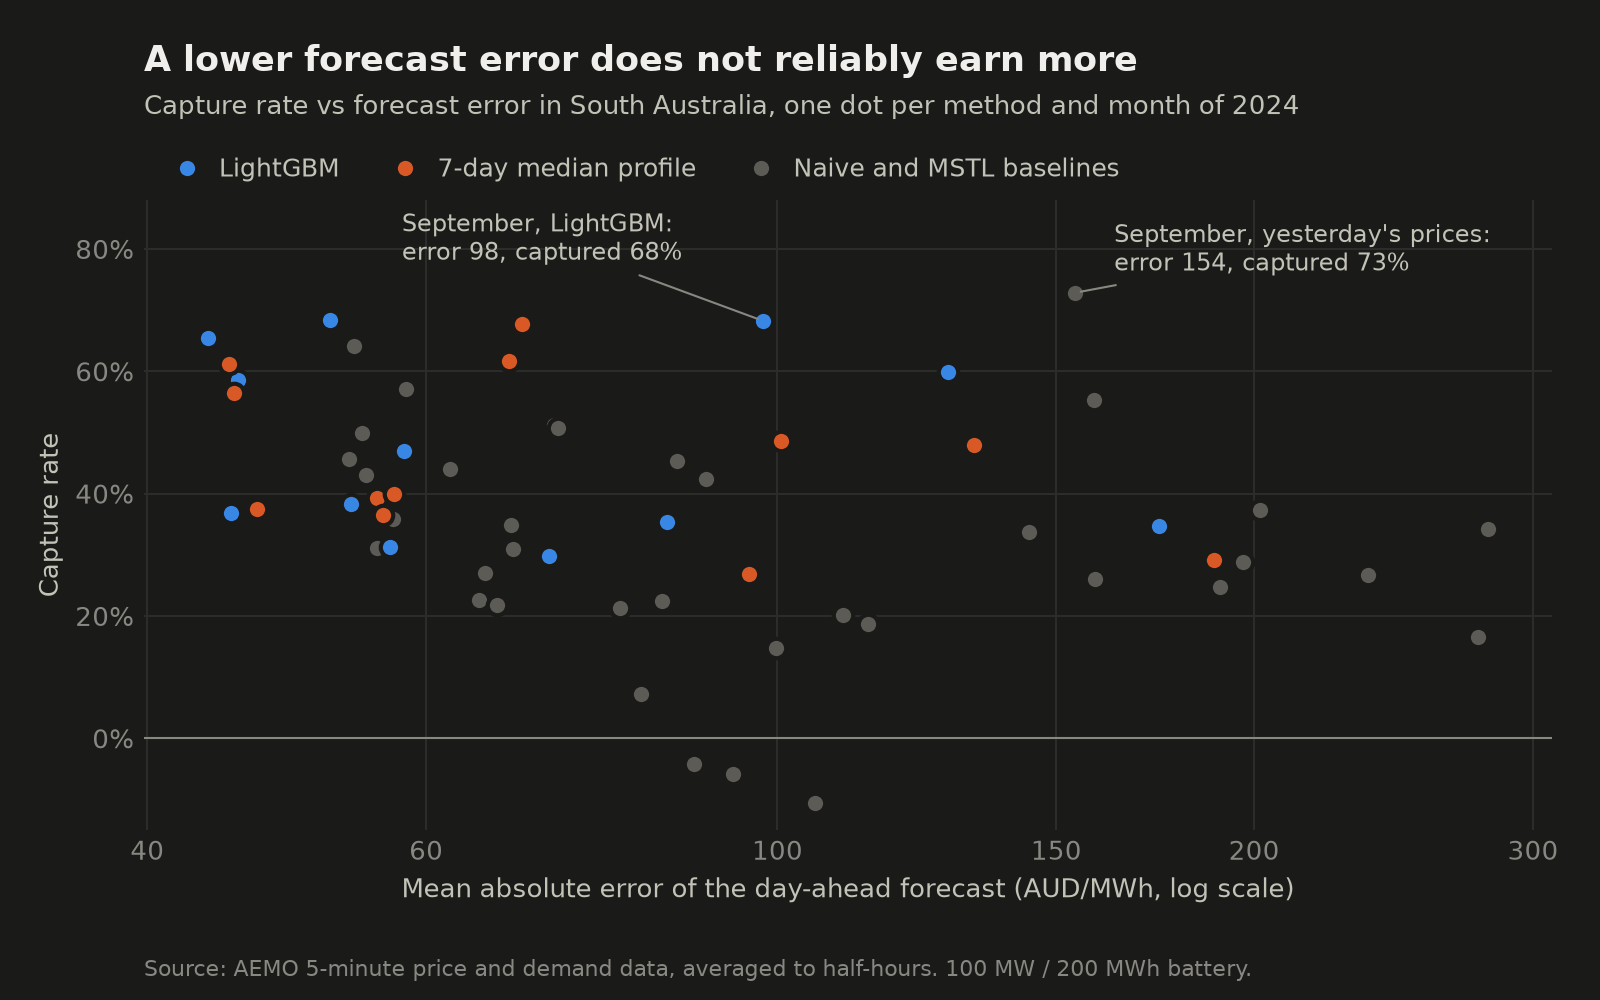
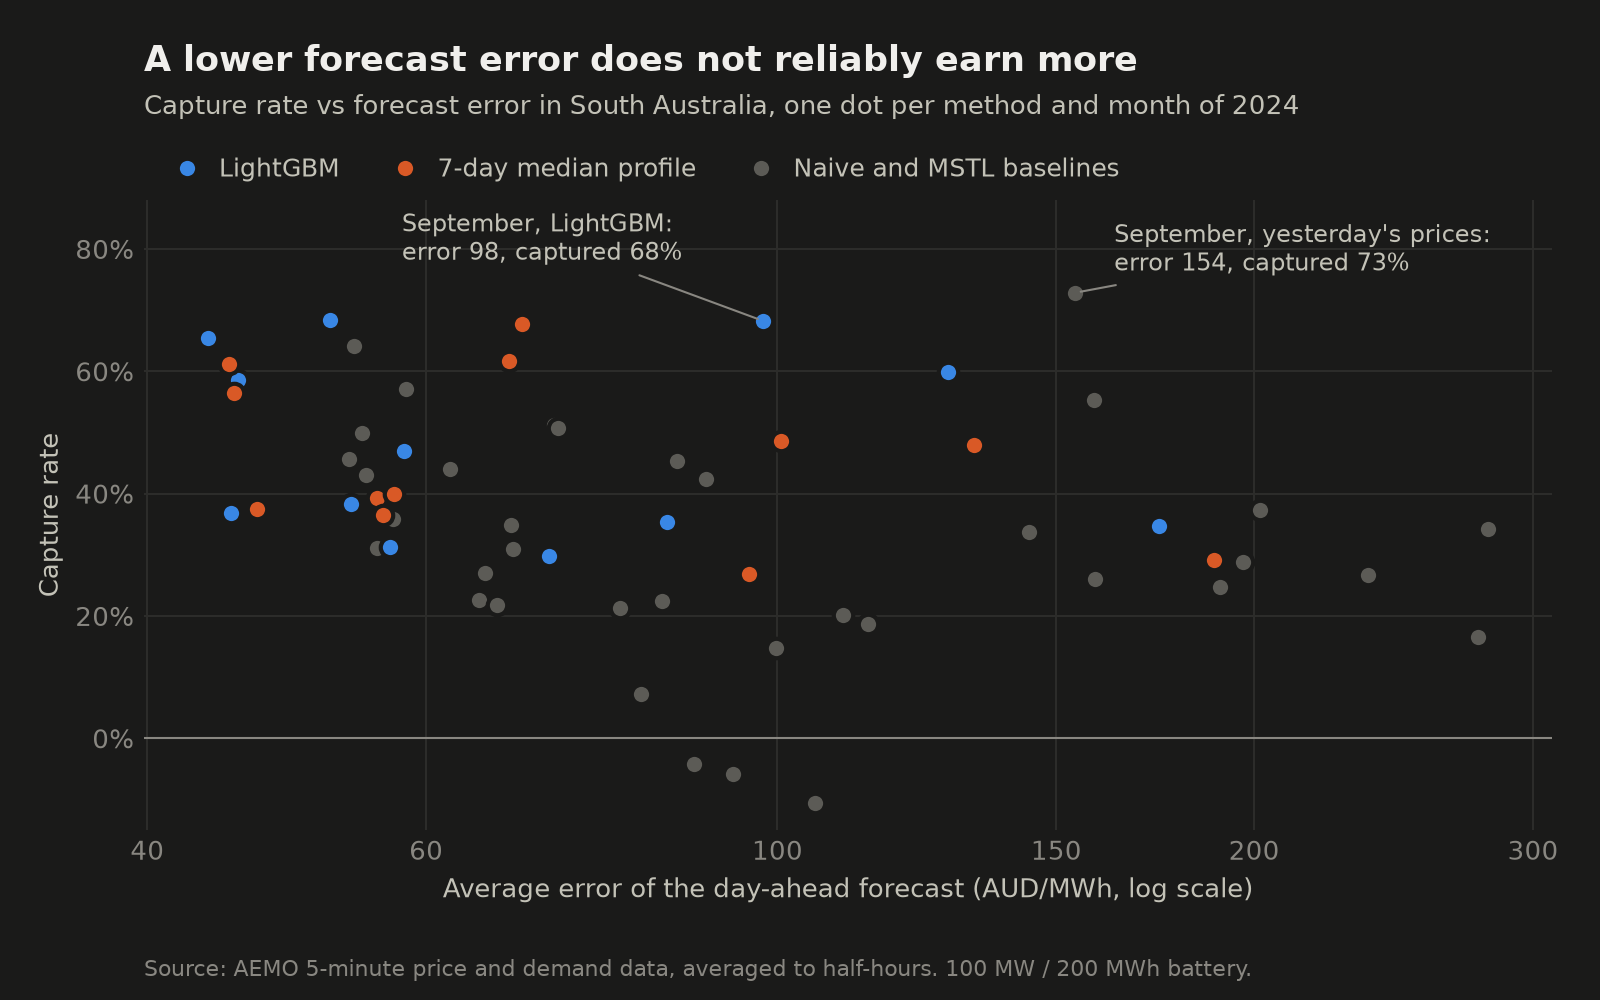
Add explanatory charts: a battery's day, capture by method, two forecasts
- battery_day: 25 Dec 2024 prices and the perfect-foresight plan
- capture_bars: each method's share of the perfect-foresight revenue
- two_forecasts: 24 Jun 2024, where LightGBM's plan bought into a
  price spike and the less accurate forecast earned more
- README shows the first and the third; plainer axis label on the
  monthly chart

Changed region(s): [[0.25, 0.868, 0.8125, 0.899]]

diff --git a/src/nem_battery/figures.py b/src/nem_battery/figures.py
@@ -1,5 +1,8 @@
 """The README's figures, each in a light and a dark version, drawn from the reports.
 
+- battery_day: one day's prices and the plan of a battery that knew them in advance;
+- capture_bars: the share of the perfect-foresight revenue each method earned;
+- two_forecasts: a day on which the less accurate forecast earned more;
 - capture_vs_mae: capture rate vs forecast error, one dot per method and month;
 - score_agreement: how well each forecast score ranks the methods' daily revenue;
 - sensitivity: the shape's lead over MAE for other batteries and regions.
@@ -10,14 +13,18 @@ from __future__ import annotations
 from pathlib import Path
 
 import matplotlib as mpl
+import numpy as np
 import pandas as pd
 from matplotlib.figure import Figure
 from matplotlib.lines import Line2D
+from matplotlib.patches import Patch
 from matplotlib.ticker import FixedLocator, PercentFormatter
 
-from .data import FIGURES_DIR
+from .backtest import load_forecasts
+from .battery import Battery, schedule
+from .data import FIGURES_DIR, INTERVAL_HOURS, INTERVALS, load_prices, prices_on
 from .forecasters import PERFECT
-from .pipeline import BASE_SCENARIO, agreement_path, daily_path
+from .pipeline import BASE_SCENARIO, agreement_path, capture_path, daily_path, forecasts_path, year_days
 
 SOURCE = "Source: AEMO 5-minute price and demand data, averaged to half-hours."
 BASE_NOTE = f"{SOURCE} 100 MW / 200 MWh battery."
@@ -32,6 +39,22 @@ THEMES = {
 }  # fmt: skip
 HIGHLIGHT = {"lightgbm": ("LightGBM", "blue"), "profile_7d_median": ("7-day median profile", "orange")}
 MARKER = 7
+METHOD_LABELS = {
+    PERFECT: "Perfect foresight",
+    "lightgbm": "LightGBM (machine learning)",
+    "profile_7d_median": "Median of the past week",
+    "naive_last_week": "Same day last week",
+    "naive_yesterday": "Yesterday's prices",
+    "mstl": "MSTL (statistical)",
+}
+# Days picked from the 2024 data to explain the idea: one whose perfect-foresight plan is
+# simple (cheap midday, dear evening), and one on which a less accurate forecast earned
+# more because LightGBM's plan bought into a price spike (labelled at that half-hour).
+BATTERY_DAY = "12-25"
+FORECAST_DAY, SIMPLE_METHOD, FORECAST_NOTE = "06-24", "naive_last_week", (14.75, "LightGBM's plan buys into this spike")
+PLAN_NAMES = {"naive_yesterday": "yesterday's-prices", "naive_last_week": "same-day-last-week", "lightgbm": "LightGBM"}
+# Each half-hour's value holds until its end, so a step line starts at midnight.
+STEP_HOURS = np.arange(INTERVALS + 1) * INTERVAL_HOURS
 SCORE_LABELS = {
     "rank_corr": "Shape (rank correlation)",
     "extreme_hits": "Peak and trough hits",
@@ -71,15 +94,116 @@ def rc(t: dict) -> dict:
 
 
 def frame(t: dict, title: str, subtitle: str, height: float, left: float = 0.09, top: float = 0.80,
-          note: str = BASE_NOTE):  # fmt: skip
-    """A figure with its title, subtitle and source note placed; returns (fig, ax)."""
+          note: str = BASE_NOTE, rows: int = 1, height_ratios: list[float] | None = None):  # fmt: skip
+    """A figure with its title, subtitle and source note placed; returns (fig, ax), or (fig, axes) for rows > 1."""
     fig = Figure(figsize=(8, height))
-    ax = fig.subplots()
+    ax = fig.subplots(rows, sharex=True, gridspec_kw={"height_ratios": height_ratios})
     fig.subplots_adjust(left=left, right=0.97, top=top, bottom=0.85 / height)
     fig.text(0.09, 1 - 0.22 / height, title, fontsize=12.5, fontweight="bold", va="top")
     fig.text(0.09, 1 - 0.47 / height, subtitle, fontsize=9.5, color=t["secondary"], va="top")
     fig.text(0.09, 0.12 / height, note, fontsize=8, color=t["muted"])
     return fig, ax
+
+
+def step(values: np.ndarray) -> np.ndarray:
+    """A day's half-hourly values ready for a step line over STEP_HOURS."""
+    return np.r_[values[0], values]
+
+
+def hour_axis(ax) -> None:
+    ax.set_xlim(0, 24)
+    ax.set_xticks(range(0, 25, 6), [f"{h:02d}:00" for h in range(0, 25, 6)])
+
+
+def battery_day(prices: pd.Series, day: pd.Timestamp, t: dict, path: Path) -> None:
+    """The day's prices on top; below, the plan a battery with perfect foresight would follow."""
+    price = prices_on(prices, day)
+    plan = schedule(price, Battery(), INTERVAL_HOURS)
+    fig, (top, bottom) = frame(t, "A battery buys cheap and sells dear",
+                               f"South Australia, {day:%-d %B %Y}: the price, and the plan of a battery that knew it "
+                               "in advance", height=5.4, top=0.82, rows=2)  # fmt: skip
+    top.plot(STEP_HOURS, step(price), color=t["ink"], linewidth=1.5, drawstyle="steps-pre")
+    top.axhline(0, color=t["muted"], linewidth=0.75)
+    top.set_ylabel("Price (AUD/MWh)")
+
+    power = (plan["discharge_mw"] - plan["charge_mw"]).to_numpy()
+    centres = STEP_HOURS[1:] - INTERVAL_HOURS / 2
+    for sign, color in ((1, "orange"), (-1, "blue")):
+        bottom.bar(centres, np.where(power * sign > 0, power, 0), width=INTERVAL_HOURS * 0.85, color=t[color])
+    bottom.axhline(0, color=t["muted"], linewidth=0.75)
+    bottom.set_ylabel("Battery (MW)")
+    bottom.legend(handles=[Patch(color=t["blue"], label="Charging: buys energy"),
+                           Patch(color=t["orange"], label="Discharging: sells energy")],
+                  loc="lower left", bbox_to_anchor=(0, 1.0), ncol=2, fontsize=9, labelcolor=t["secondary"],
+                  borderaxespad=0.2)  # fmt: skip
+    hour_axis(bottom)
+    fig.subplots_adjust(hspace=0.35)
+    fig.savefig(path, dpi=200)
+
+
+def capture_bars(capture: pd.DataFrame, year: int, t: dict, path: Path) -> None:
+    """Each method's capture rate in the base scenario, with perfect foresight as the 100% reference."""
+    base = capture[capture["scenario"] == BASE_SCENARIO].sort_values("capture_rate")
+    fig, ax = frame(t, "The best forecast captured less than half of what was possible",
+                    f"Share of the perfect-foresight revenue each forecast earned, South Australia, {year}",
+                    height=3.9, left=0.30, top=0.78)  # fmt: skip
+    y = np.arange(len(base))
+    colors = [t["other"] if name == PERFECT else t["blue"] for name in base["forecaster"]]
+    ax.barh(y, base["capture_rate"], height=0.62, color=colors)
+    for i, (name, rate, revenue) in enumerate(
+        base[["forecaster", "capture_rate", "revenue_aud"]].itertuples(index=False)
+    ):
+        if name == PERFECT:  # labelled inside its bar, which runs to the edge
+            ax.text(rate - 0.015, i, f"100% = AUD {revenue / 1e6:.1f} million", va="center", ha="right", fontsize=9,
+                    color=t["ink"])  # fmt: skip
+        else:
+            ax.text(rate + 0.012, i, f"{rate:.0%}", va="center", fontsize=9, color=t["secondary"])
+    ax.set_yticks(y, [METHOD_LABELS[name] for name in base["forecaster"]])
+    ax.tick_params(axis="y", colors=t["secondary"], labelsize=9.5)
+    ax.set_xlim(0, 1.08)
+    ax.set_xticks([])
+    ax.grid(visible=False)
+    fig.savefig(path, dpi=200)
+
+
+def two_forecasts(prices: pd.Series, forecasts: pd.DataFrame, daily: pd.DataFrame, day: pd.Timestamp, simple: str,
+                  note: tuple[float, str], t: dict, path: Path) -> None:  # fmt: skip
+    """The actual prices with a simple forecast and LightGBM's; below, what each forecast told the battery to do."""
+    results = daily[daily["day"] == day].set_index("forecaster")
+    actual = prices_on(prices, day)
+    fig, (top, *plans) = frame(t, "Closer on average is not the same as right on time",
+                               f"South Australia, {day:%-d %B %Y}: two day-ahead forecasts and the plan each led to",
+                               height=6.6, top=0.74, rows=3,
+                               height_ratios=[3, 1, 1])  # fmt: skip
+    top.plot(STEP_HOURS, step(actual), color=t["ink"], linewidth=2.25, drawstyle="steps-pre", label="Actual price",
+             zorder=3)  # fmt: skip
+    centres = STEP_HOURS[1:] - INTERVAL_HOURS / 2
+    for ax, (name, color) in zip(plans, ((simple, "orange"), ("lightgbm", "blue")), strict=True):
+        mae, revenue = results.loc[name, ["mae", "revenue_aud"]]
+        outcome = f"earned AUD {round(revenue, -2):,.0f}" if revenue >= 0 else f"lost AUD {round(-revenue, -2):,.0f}"
+        values = forecasts.loc[(day, name)].to_numpy()
+        top.plot(STEP_HOURS, step(values), color=t[color], linewidth=1.5, drawstyle="steps-pre",
+                 label=f"{METHOD_LABELS[name]}: missed by {mae:.0f} on average, {outcome}")  # fmt: skip
+        plan = schedule(values, Battery(), INTERVAL_HOURS)
+        ax.bar(centres, (plan["discharge_mw"] - plan["charge_mw"]).to_numpy(), width=INTERVAL_HOURS * 0.85,
+               color=t[color])  # fmt: skip
+        ax.axhline(0, color=t["muted"], linewidth=0.75)
+        ax.set_ylim(-115, 115)
+        ax.set_yticks([-100, 100], ["buy", "sell"])
+        ax.grid(axis="y", visible=False)
+        ax.set_title(f"Battery plan using the {PLAN_NAMES[name]} forecast", loc="left", fontsize=9,
+                     color=t["secondary"], pad=3)  # fmt: skip
+    hour, text = note
+    top.annotate(text, (hour, actual[int(hour / INTERVAL_HOURS)]), xytext=(-170, 6), textcoords="offset points",
+                 fontsize=8.5, color=t["secondary"], va="center",
+                 arrowprops={"arrowstyle": "-", "color": t["muted"], "linewidth": 0.75})  # fmt: skip
+    top.axhline(0, color=t["muted"], linewidth=0.75)
+    top.set_ylabel("Price (AUD/MWh)")
+    top.legend(loc="lower left", bbox_to_anchor=(0, 1.0), ncol=1, fontsize=9, labelcolor=t["secondary"],
+               borderaxespad=0.3, handlelength=2.2)  # fmt: skip
+    hour_axis(plans[-1])
+    fig.subplots_adjust(hspace=0.45)
+    fig.savefig(path, dpi=200)
 
 
 def capture_vs_mae(points: pd.DataFrame, year: int, t: dict, path: Path) -> None:
@@ -106,7 +230,7 @@ def capture_vs_mae(points: pd.DataFrame, year: int, t: dict, path: Path) -> None
     ax.xaxis.set_minor_locator(FixedLocator([]))
     ax.set_ylim(-0.15, 0.88)
     ax.yaxis.set_major_formatter(PercentFormatter(1, decimals=0))
-    ax.set_xlabel("Mean absolute error of the day-ahead forecast (AUD/MWh, log scale)")
+    ax.set_xlabel("Average error of the day-ahead forecast (AUD/MWh, log scale)")
     ax.set_ylabel("Capture rate")
     ax.axhline(0, color=t["muted"], linewidth=0.75)
 
@@ -164,11 +288,29 @@ def sensitivity(table: pd.DataFrame, year: int, t: dict, path: Path) -> None:
 
 def draw_figures(year: int) -> None:
     """Draw every figure in both themes into figures/."""
-    points = monthly(pd.read_csv(daily_path("SA1", year), parse_dates=["day"]))
+    daily = pd.read_csv(daily_path("SA1", year), parse_dates=["day"])
+    points = monthly(daily)
     agreement = pd.read_csv(agreement_path(year))
+    capture = pd.read_csv(capture_path(year))
+    days = year_days(year)
+    prices = load_prices("SA1", days[0], days[-1] + pd.Timedelta(days=1))["rrp"]
+    forecasts = load_forecasts(forecasts_path("SA1", year))
+    battery, forecast = pd.Timestamp(f"{year}-{BATTERY_DAY}"), pd.Timestamp(f"{year}-{FORECAST_DAY}")
     FIGURES_DIR.mkdir(exist_ok=True)
     for mode, theme in THEMES.items():
         with mpl.rc_context(rc(theme)):
+            battery_day(prices, battery, theme, FIGURES_DIR / f"battery_day-{mode}.png")
+            capture_bars(capture, year, theme, FIGURES_DIR / f"capture_bars-{mode}.png")
+            two_forecasts(
+                prices,
+                forecasts,
+                daily,
+                forecast,
+                SIMPLE_METHOD,
+                FORECAST_NOTE,
+                theme,
+                FIGURES_DIR / f"two_forecasts-{mode}.png",
+            )
             capture_vs_mae(points, year, theme, FIGURES_DIR / f"capture_vs_mae-{mode}.png")
             score_agreement(agreement, year, theme, FIGURES_DIR / f"score_agreement-{mode}.png")
             sensitivity(agreement, year, theme, FIGURES_DIR / f"sensitivity-{mode}.png")

diff --git a/README.md b/README.md
@@ -25,6 +25,11 @@ subject to state-of-charge dynamics $s_t = s_{t-1} + \eta_c c_t \Delta t - d_t \
 
 A binary mode variable stops the battery from charging and discharging in the same interval. Without it, a linear program would do exactly that whenever prices go negative, which they often do in South Australia: it would burn energy through conversion losses to be paid for consuming. The battery is 100 MW / 200 MWh with ~85% round-trip efficiency.
 
+<picture>
+  <source media="(prefers-color-scheme: dark)" srcset="figures/battery_day-dark.png">
+  <img alt="South Australian prices on 25 December 2024, negative from 06:00 to 16:30 and peaking at 201 AUD/MWh at 19:30, above the perfect-foresight plan: the battery charges in a few negative-price half-hours in the morning and at midday and discharges between 18:00 and 20:30." src="figures/battery_day-light.png">
+</picture>
+
 ## Backtest
 
 For each day $D$:
@@ -60,7 +65,14 @@ MSTL shows the same gap from the other side. Its first version added the weekly 
 
 ## What the battery needs from a forecast
 
-If the average error is not what earns money, what is? A battery charges in a few cheap half-hours and discharges in a few dear ones, so it needs the day's shape more than the level of each price. I scored every daily forecast in four more ways:
+If the average error is not what earns money, what is? A battery charges in a few cheap half-hours and discharges in a few dear ones, so it needs the day's shape more than the level of each price. On 24 June 2024, for example, the same day of the previous week missed by 93 AUD/MWh on average and LightGBM by 61, yet LightGBM's plan bought into a price spike at 14:30 and earned AUD 28,700, against 47,800 for the less accurate forecast.
+
+<picture>
+  <source media="(prefers-color-scheme: dark)" srcset="figures/two_forecasts-dark.png">
+  <img alt="Actual South Australian prices on 24 June 2024 with two day-ahead forecasts, the same day last week (error 93, earned AUD 47,800) and LightGBM (error 61, earned AUD 28,700), above the plan each forecast led to. LightGBM's plan buys at 14:30, when the price spiked to 355 AUD/MWh." src="figures/two_forecasts-light.png">
+</picture>
+
+I scored every daily forecast in four more ways:
 
 - **Shape:** the rank correlation between the forecast and the actual prices within the day, which asks whether the forecast puts the half-hours in the right order.
 - **Peak hits and trough hits:** the share of the day's four dearest (or cheapest) half-hours that the forecast also picks. Four half-hours are what the battery needs for one full discharge.
